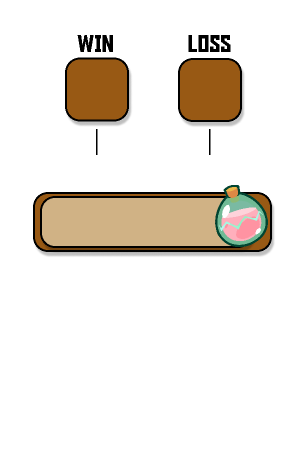
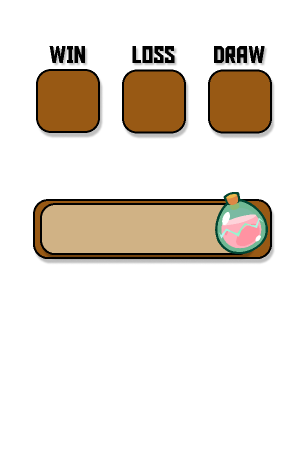
ver 1.2

Changed region(s): [[0.1169, 0.0607, 0.9058, 0.3341], [0.0877, 0.3948, 0.9058, 0.577]]

diff --git a/main.py b/main.py
@@ -130,6 +130,7 @@ def on_press(key):
 tab2_data = {
     "win":"0",
     "loss": "0",
+    "draw": "0",
     "slp": "0"
 }
 
@@ -169,11 +170,13 @@ def del_calc():
 def reset_winrate():
     canvas2.itemconfig(win_label, text = 0)
     canvas2.itemconfig(loss_label, text = 0)
+    canvas2.itemconfig(draw_label, text = 0)
 
 def tab2_save():
     global tab2_calculation
     tab2_data["win"] = canvas2.itemcget(win_label, 'text')
     tab2_data["loss"] = canvas2.itemcget(loss_label, 'text')
+    tab2_data["draw"] = canvas2.itemcget(draw_label, 'text')
     if tab2_calculation == "":
         tab2_data["slp"] = "0"
     else:
@@ -189,6 +192,7 @@ def tab2_load():
 
     canvas2.itemconfig(win_label, text = data["win"])
     canvas2.itemconfig(loss_label, text = data["loss"])
+    canvas2.itemconfig(draw_label, text = data["draw"])
     tab2_calculation = str(data["slp"])
     calc_text.delete(1.0, "end")
     calc_text.insert(1.0, tab2_calculation)
@@ -293,7 +297,7 @@ b8.place(x = 186, y = 150, width = 51, height = 53)
 energy_count = canvas1.create_text(149.0, 86.0,text = "3",  fill = clr_white, font = (dflt_fnt, int(48.0)))
 
 
-# Round count
+# Round countg
 round_count = canvas1.create_text( 90.5, 28.0, text = "1", fill = clr_white, font = (dflt_fnt, int(24.0)))
 
 ####################################################################################################
@@ -395,26 +399,37 @@ calc_plus = create_lambda_btn(tab2, add_to_calc, "+", btn_calc_plus_img)
 calc_plus.place(x = 196, y = 347, width = 39, height = 81)
 
 #winrate label
-win_label = canvas2.create_text(94.0, 88.0, text = "0", fill = "#ffffff", font = (dflt_fnt, int(40.0)))
+win_label = canvas2.create_text(64.0, 97.0, text = "0", fill = "#ffffff", font = (dflt_fnt, int(40.0)))
 
 #loss label
-loss_label = canvas2.create_text(206.0, 88.0, text = "0", fill = "#ffffff", font = (dflt_fnt, int(40.0)))
+loss_label = canvas2.create_text(151.0, 97.0, text = "0", fill = "#ffffff", font = (dflt_fnt, int(40.0)))
 
-# small - ng nde ko pa alam
+#draw label
+draw_label = canvas2.create_text(236.0, 97.0, text = "0", fill = "#ffffff", font = (dflt_fnt, int(40.0)))
+
+# small - ng Loss
 loss_minus = create_lambda_btn(tab2, btn_minus, loss_label, btn_small_minus_img, canvas2)
-loss_minus.place(x = 174, y = 123, width = 29, height = 30)
+loss_minus.place(x = 119, y = 136, width = 29, height = 30)
 
-# small + ng nde ko pa alam
+# small + Loss
 loss_plus = create_lambda_btn(tab2, btn_add, loss_label, btn_small_plus_img, canvas2)
-loss_plus.place(x = 212, y = 123, width = 30, height = 30)
+loss_plus.place(x = 157, y = 136, width = 30, height = 30)
 
-#small - nde ko alam
+#small - WIN
 win_minus = create_lambda_btn(tab2, btn_minus, win_label, btn_small_minus_img, canvas2)
-win_minus.place(x = 61, y = 123, width = 29, height = 30)
+win_minus.place(x = 33, y = 134, width = 29, height = 30)
 
-# small + ng nde ko know hahahahha
+# small + WIN
 win_plus = create_lambda_btn(tab2, btn_add, win_label, btn_small_plus_img, canvas2)
-win_plus.place(x = 99, y = 123, width = 29, height = 30)
+win_plus.place(x = 71, y = 134, width = 29, height = 30)
+
+#small - DRAW
+draw_minus = create_lambda_btn(tab2, btn_minus, draw_label, btn_small_minus_img, canvas2)
+draw_minus.place(x = 205, y = 136, width = 29, height = 30)
+
+# small + DRAW
+draw_plus = create_lambda_btn(tab2, btn_add, draw_label, btn_small_plus_img, canvas2)
+draw_plus.place(x = 243, y = 136, width = 29, height = 30)
 
 #save button
 b19 = create_norm_btn(tab2, tab2_save, btn_save_img)
@@ -422,11 +437,11 @@ b19.place(x = 254, y = 407, width = 35, height = 36)
 
 #small reset
 b20 = create_norm_btn(tab2, reset_winrate, btn_small_reset_img)
-b20.place(x = 137, y = 71, width = 30, height = 30)
+b20.place(x = 6, y = 6, width = 35, height = 35)
 
 #text Box
-tab2_textbox_img = PhotoImage(master=tab2, file = f"./images/tab2_textbox.png")
-entry0_bg = canvas2.create_image(127.0, 217.0,image = tab2_textbox_img)
+# tab2_textbox_img = PhotoImage(master=tab2, file = f"./images/tab2_textbox.png")
+# entry0_bg = canvas2.create_image(128.5, 226.0, image = tab2_textbox_img)
 calc_text = Text(
     tab2,
     # height=36,
@@ -438,37 +453,34 @@ calc_text = Text(
     highlightthickness = 0,
     font = (dflt_fnt, int(25.0)))
 calc_text.place(
-    x = 45, y = 198,
+    x = 45, y = 203,
     width = 167,
     height = 36)
 ####################################################################################################
 
-window.bind("<w>", on_press)
-window.bind("<q>", on_press)
-window.bind("<s>", on_press)
-window.bind("<a>", on_press)
-window.bind("<x>", on_press)
-window.bind("<z>", on_press)
-window.bind("<f>", on_press)
-window.bind("<r>", on_press)
-window.bind("<e>", on_press)
+# # Hotkeys not working when exported as exe
+# window.bind("<w>", on_press)
+# window.bind("<q>", on_press)
+# window.bind("<s>", on_press)
+# window.bind("<a>", on_press)
+# window.bind("<x>", on_press)
+# window.bind("<z>", on_press)
+# window.bind("<f>", on_press)
+# window.bind("<r>", on_press)
+# window.bind("<e>", on_press)
 
-window.bind("<W>", on_press)
-window.bind("<Q>", on_press)
-window.bind("<S>", on_press)
-window.bind("<A>", on_press)
-window.bind("<X>", on_press)
-window.bind("<Z>", on_press)
-window.bind("<F>", on_press)
-window.bind("<R>", on_press)
-window.bind("<E>", on_press)
+# window.bind("<W>", on_press)
+# window.bind("<Q>", on_press)
+# window.bind("<S>", on_press)
+# window.bind("<A>", on_press)
+# window.bind("<X>", on_press)
+# window.bind("<Z>", on_press)
+# window.bind("<F>", on_press)
+# window.bind("<R>", on_press)
+# window.bind("<E>", on_press)
 
 
-def doSomething():
-    window.quit()
-window.protocol('WM_DELETE_WINDOW', doSomething)
 tab2_load()
-print("Hello World")
 window.resizable(False, False)
 window.mainloop()
 sys.exit()
